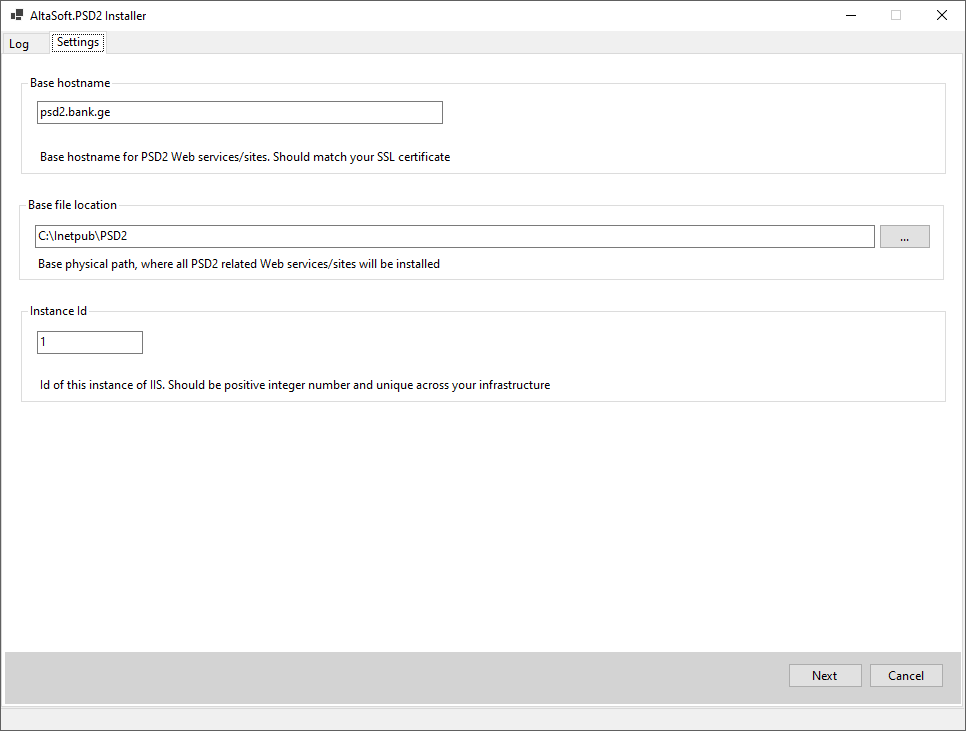
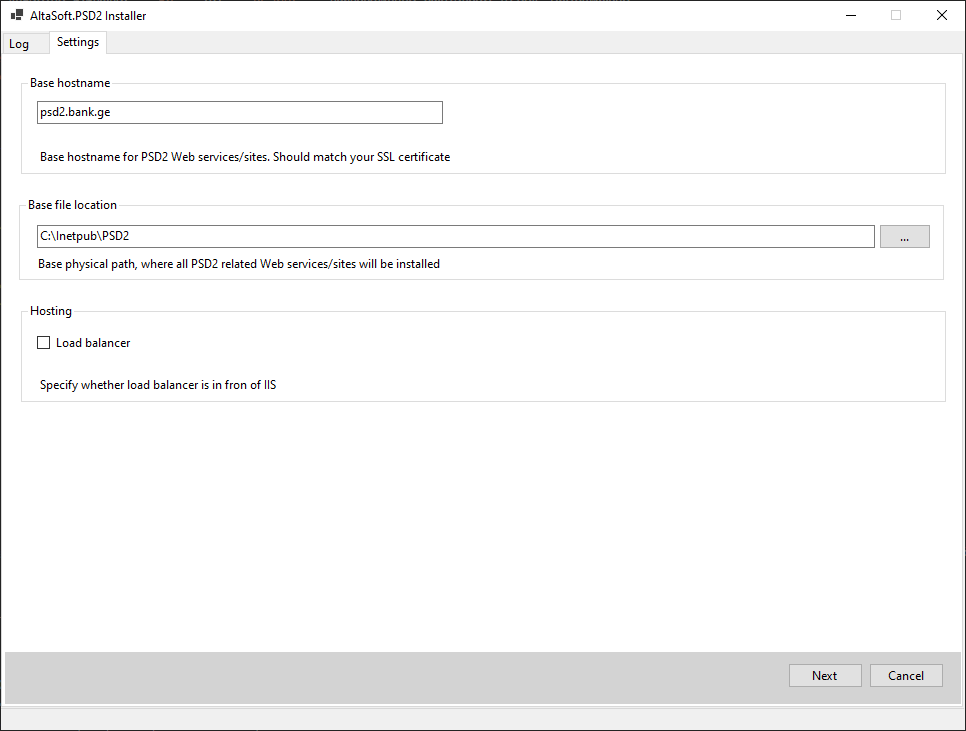
Sandbox Installation guide updated

diff --git a/Sandbox-Installation-guide.md b/Sandbox-Installation-guide.md
@@ -18,12 +18,14 @@
         * Fill Bank BIC code - Your bank's 9 digit SWIFT BIC code
         * Type your password and then press 'Next' button
 
-    1.  Now you will see the SQL connection screen:
+    1.  Now you will see the Database and Certificate screen:
 
         ![Image](../main/Images/Installer-sql.png)
 
-        * If you already installed SQL database, then please skip this step by pressin 'Skip' buttom
-        * IF not, then fill SQL connection string and press 'Next' button *(You can use Sql connection string dialog by pressing '...' button)*
+        * Fill SQL connection string *(You can use Sql connection string dialog by pressing '...' button)*
+        * Fill your QSealC certificates thumbprint and press 'Next' button *(You can use Select Certificate dialog by pressing '...' button)*
+            * Your QSealC certificate should be installed in ```Windows Certificate Store``` with store location = ```Local Machine```. 
+            * It should have private key.
 
         ![Image](../main/Images/Installer-sql-dialog.png)
 
@@ -35,7 +37,7 @@
             
             * Base hostname - Base hostname for PSD2 Web services/sites. Should match your SSL certificate
             * Base location - Base physical path, where all PSD2 related Web services/sites will be installed
-            * Instance Id - Id of this instance of IIS. Should be positive integer number and unique across your infrastructure
+            * Load balancer - Check this if you have load balancer in front of IIS
        
         * Verify that all settings are good and then press 'Next' button
 
